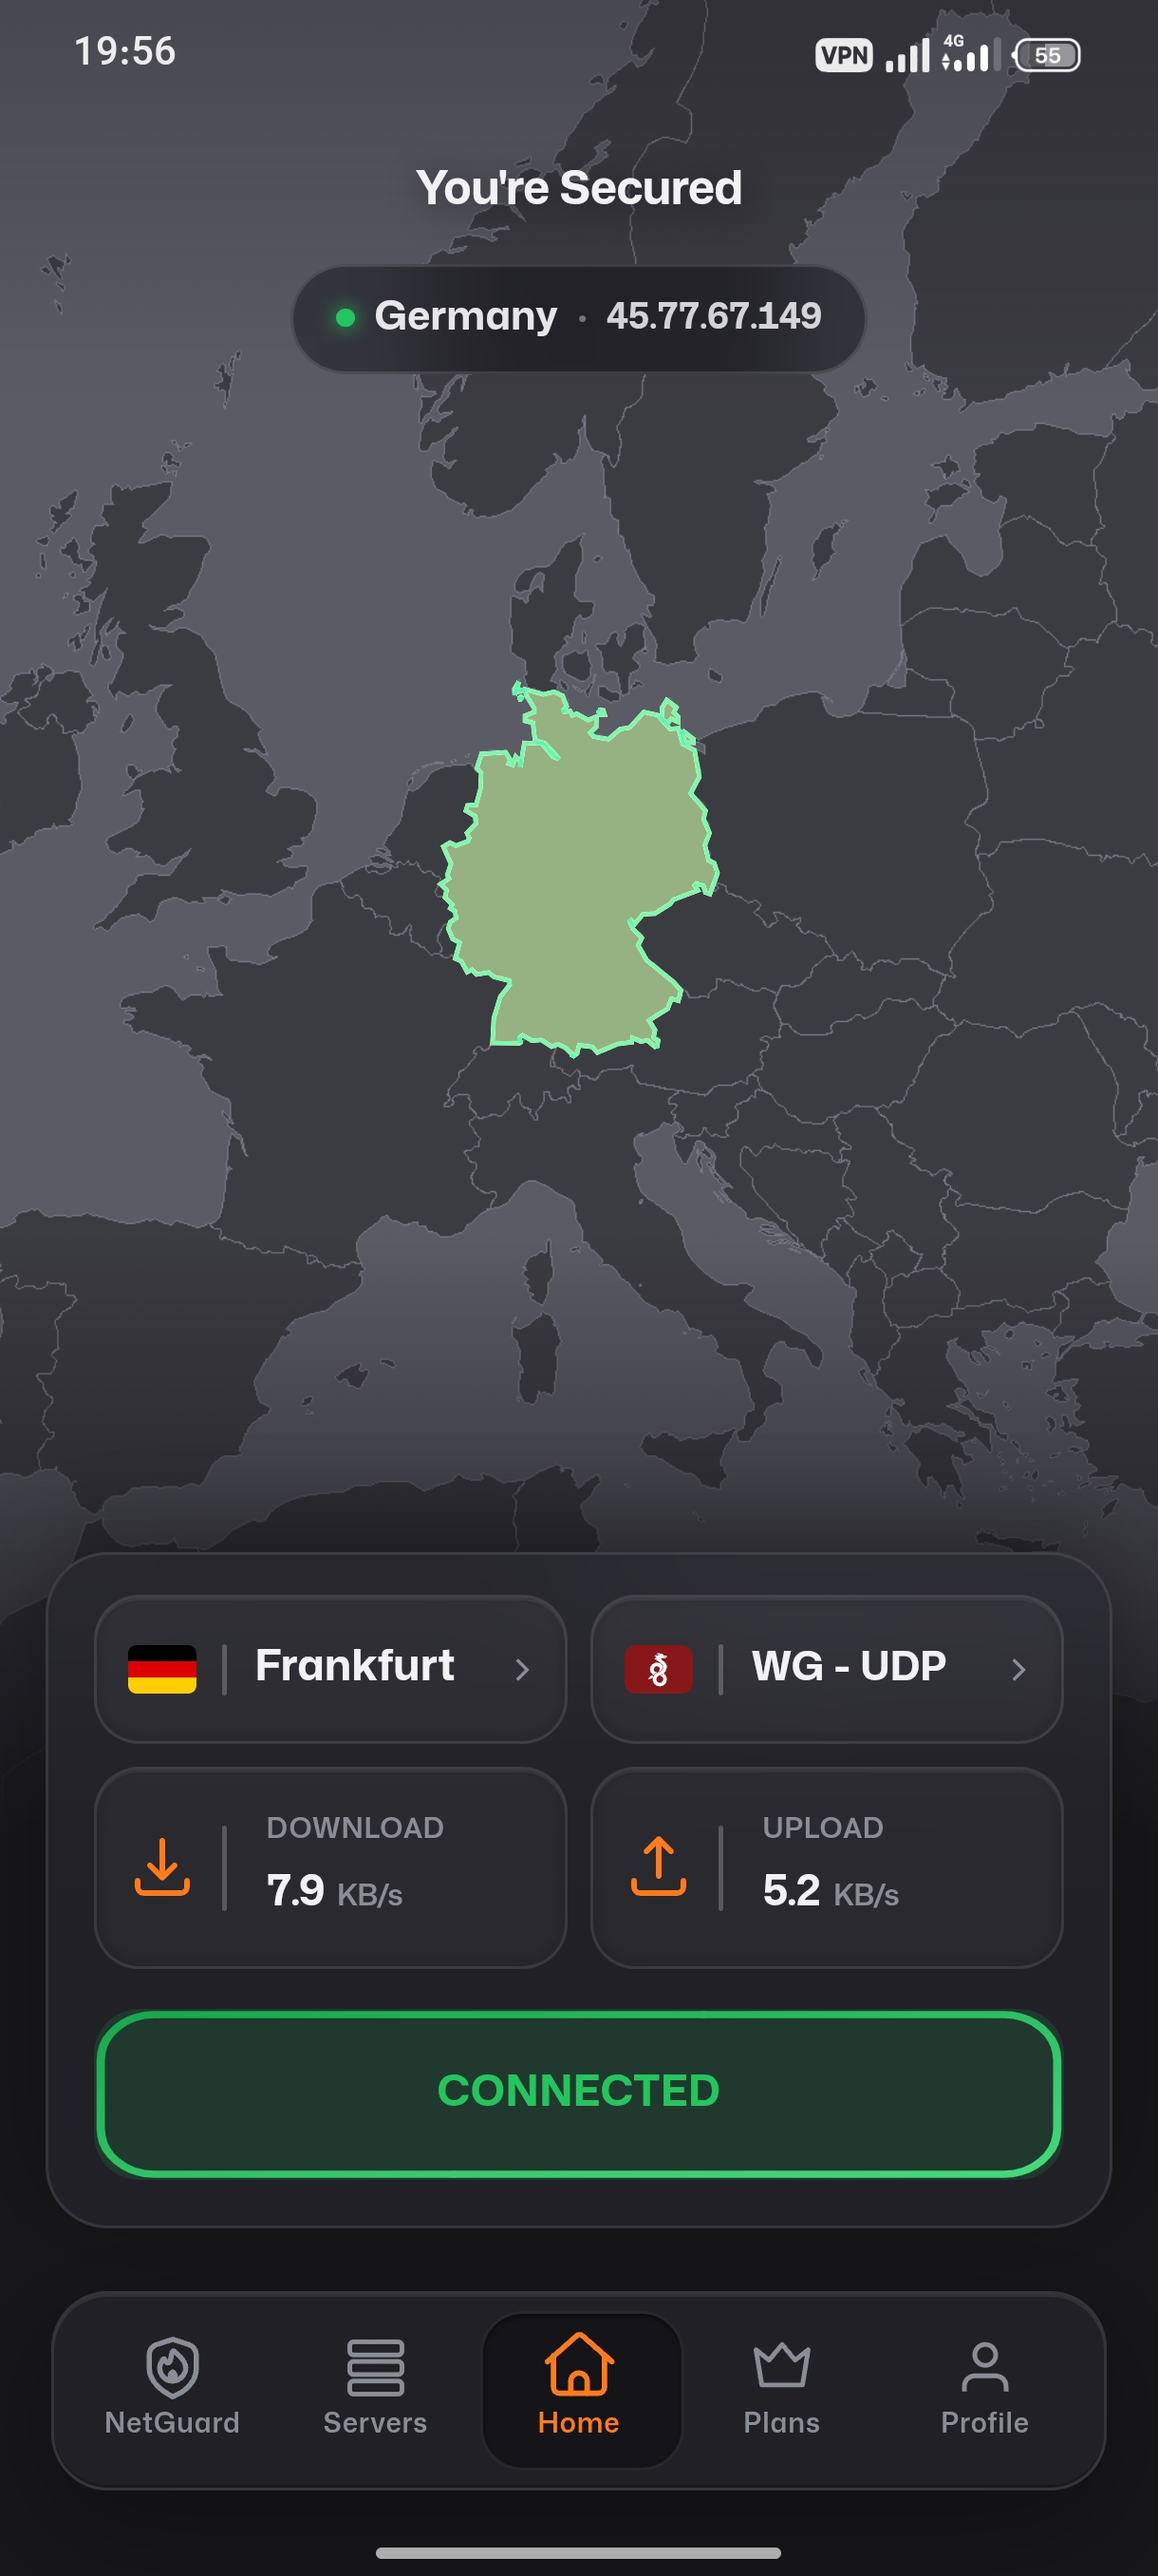
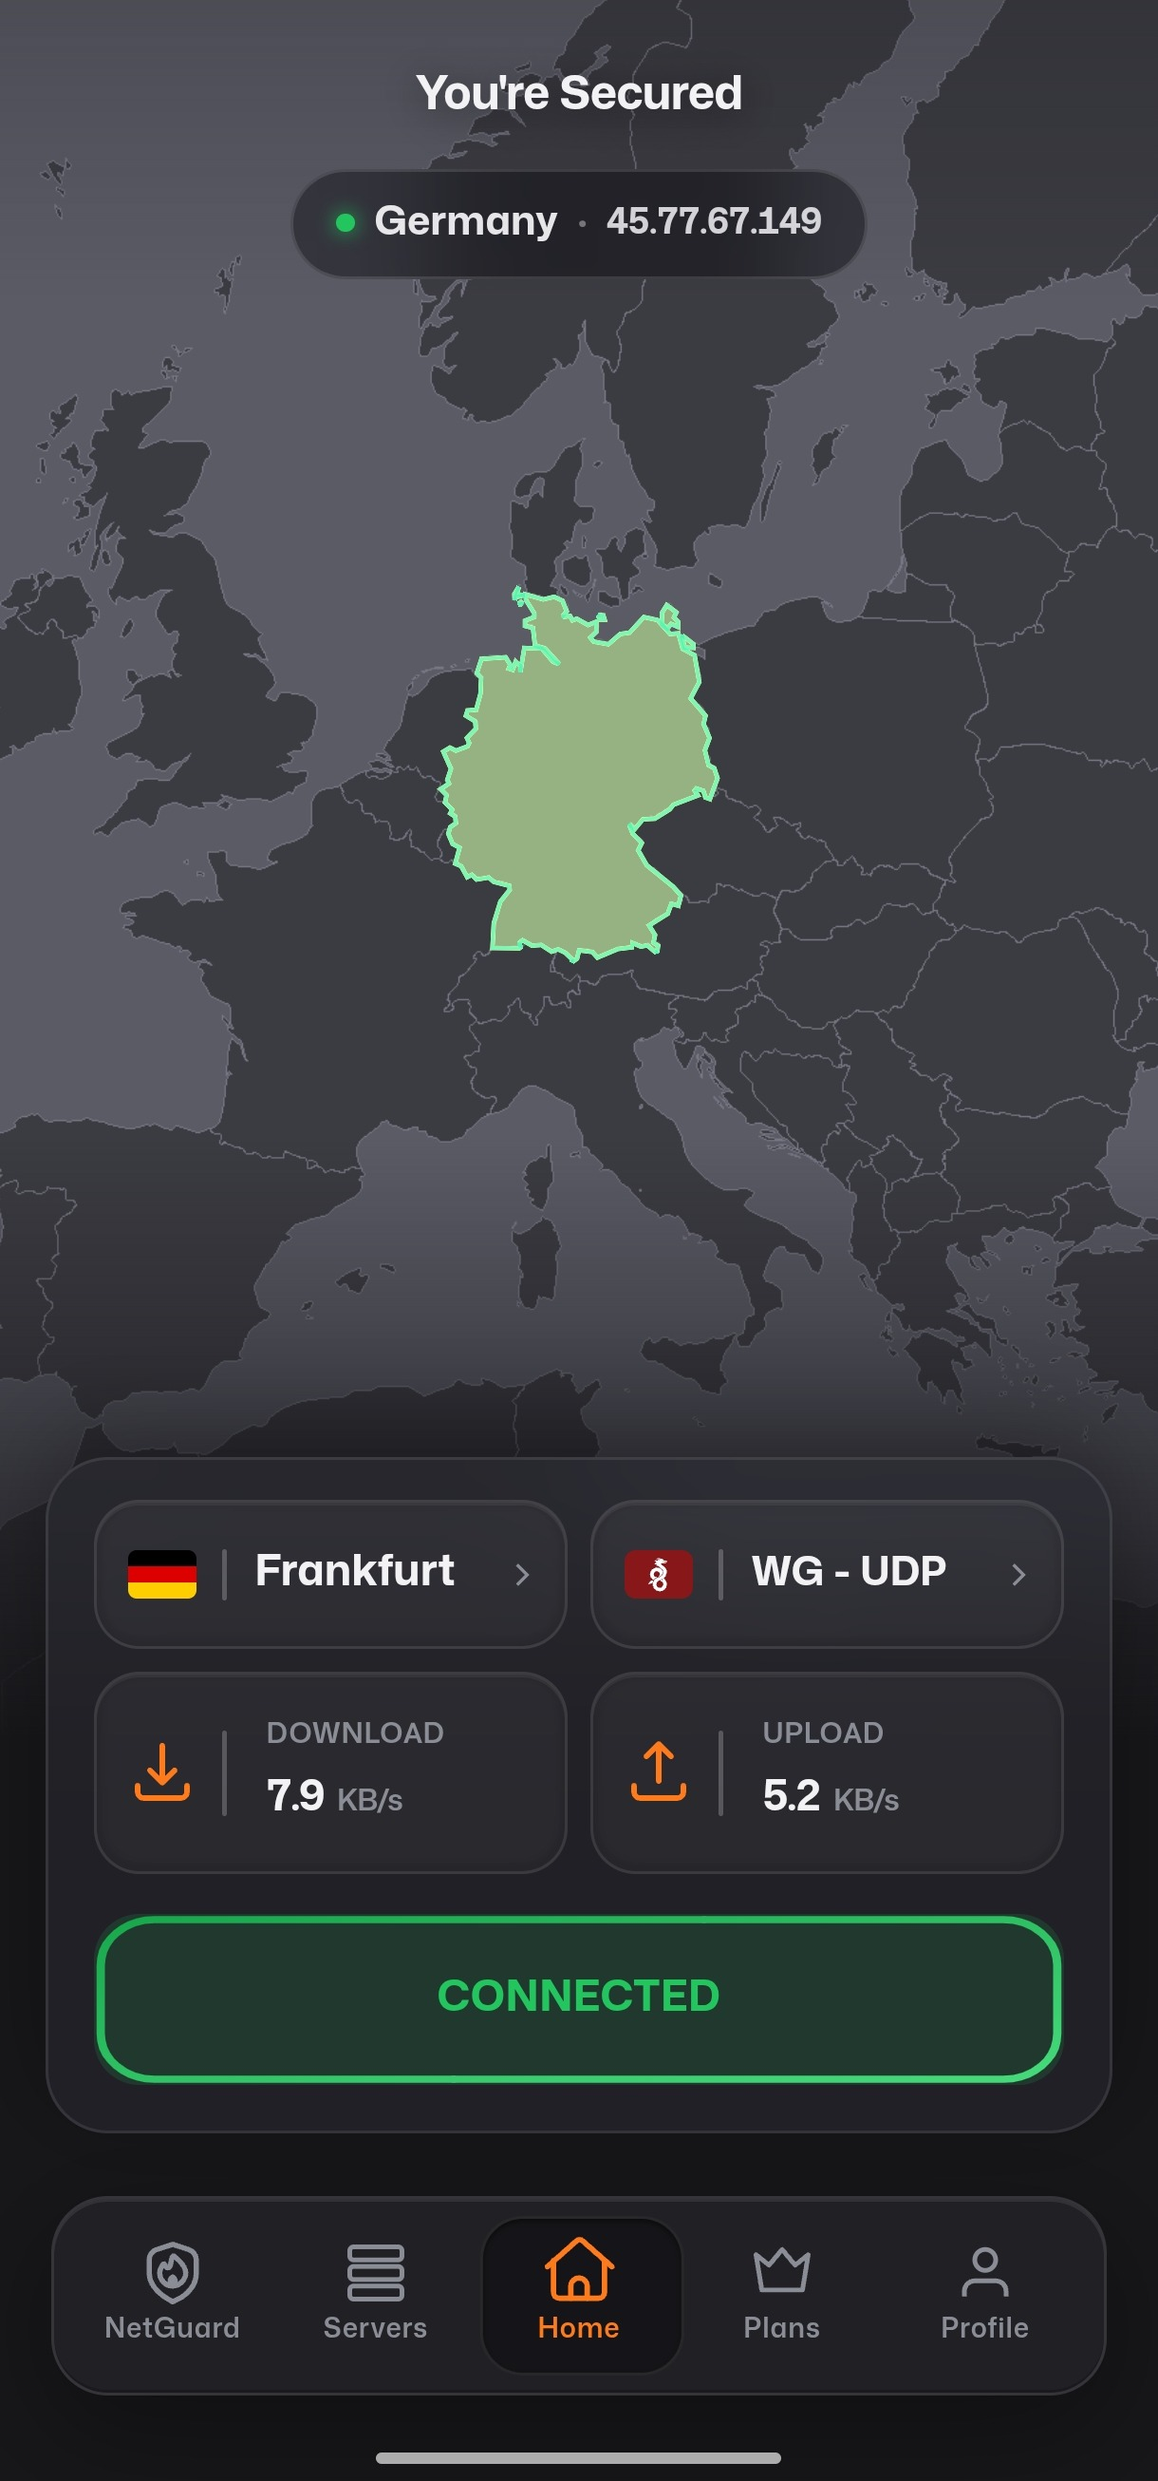
Crop status bar from screenshots, add servers screenshot, make screenshots section collapsible

diff --git a/README.md b/README.md
@@ -32,11 +32,17 @@ If you'd rather download from our own server directly:
 
 ## Screenshots
 
+<details>
+<summary>Tap to view screenshots</summary>
+<br>
+
 <p align="center">
-  <img src="screenshots/login.png" width="260" alt="Sign in screen" />
-  &nbsp;&nbsp;
-  <img src="screenshots/home-connected.jpg" width="260" alt="Connected to a server" />
+  <img src="screenshots/login.png" width="240" alt="Sign in screen" />
+  <img src="screenshots/home-connected.jpg" width="240" alt="Connected to a server" />
+  <img src="screenshots/servers.jpg" width="240" alt="Server list" />
 </p>
+
+</details>
 
 ## What's inside
 
